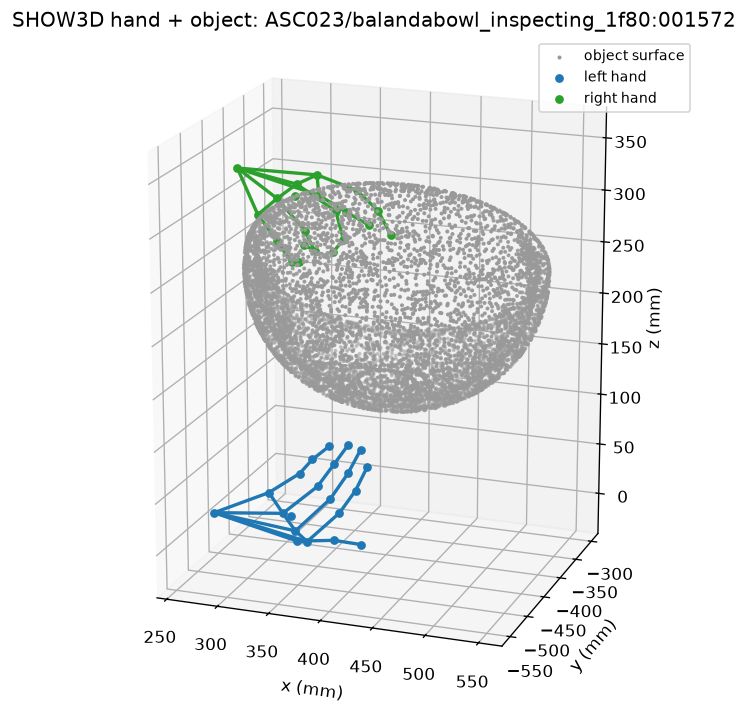
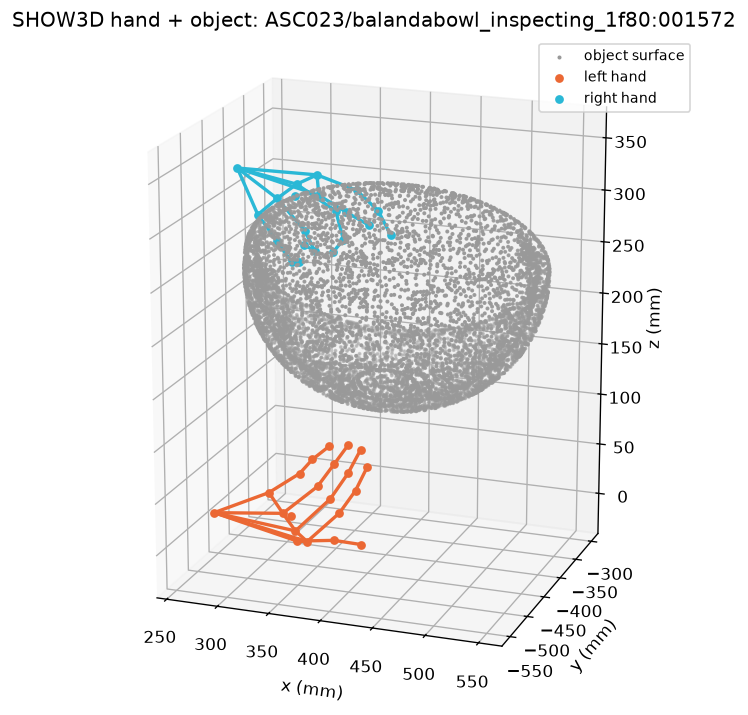
Stereo overlay, mesh-colored skeletons and hand-mesh fixes
- demo_viz --mode overlay --view stereo draws headset0 and headset1 side by
  side; the README's top image is now that stereo montage.
- Hand skeletons use the hand-mesh colors (left orange, right cyan) in every
  render; docs/geometry.png is recolored to match.
- MANO and MHR posers return None for a hand entry missing its parameters,
  as UmeTrack already did.
- viz.drawn_landmarks: the hands every render draws, above the 0.1 accept gate.
- CI runs with read-only repository permissions; CONTRIBUTING explains that
  pull requests land through Meta's internal tree; extract_images docstring fix.

diff --git a/show3d/viz.py b/show3d/viz.py
@@ -8,7 +8,8 @@
 
 Two renders of one frame, each writing a PNG:
 
-* :func:`render_overlay`  -- hand skeleton + object projected onto the frame (2D).
+* :func:`render_overlay`  -- hand skeleton + object projected onto the frame (2D),
+  or onto both egocentric frames side by side.
 * :func:`render_geometry` -- hand skeleton + object surface in 3D.
 
 :func:`run_visualization` picks a suitable frame from a frame manifest and
@@ -88,17 +89,25 @@ HAND_EDGES: tuple[tuple[int, int], ...] = (
     (14, 17),  # palm arch
 )
 
-# (legend label, color) per hand, keyed by ``LEFT_HAND`` / ``RIGHT_HAND``.
-HAND_STYLES: dict[str, tuple[str, str]] = {
-    LEFT_HAND: ("left hand", "tab:blue"),
-    RIGHT_HAND: ("right hand", "tab:green"),
-}
-# Hand mesh RGB per slot, orange for the left hand and cyan for the right: the
-# colors of the released viz_*.mp4 videos.
+# Hand RGB per slot, orange for the left hand and cyan for the right: the colors
+# of the released viz_*.mp4 videos. Skeletons and meshes both use them.
 MESH_COLORS: tuple[tuple[int, int, int], tuple[int, int, int]] = (
     (235, 104, 52),
     (42, 184, 214),
 )
+
+
+def _hex_color(rgb: tuple[int, int, int]) -> str:
+    return "#{:02x}{:02x}{:02x}".format(*rgb)
+
+
+# (legend label, color) per hand, keyed by ``LEFT_HAND`` / ``RIGHT_HAND``.
+HAND_STYLES: dict[str, tuple[str, str]] = {
+    LEFT_HAND: ("left hand", _hex_color(MESH_COLORS[LEFT_SLOT])),
+    RIGHT_HAND: ("right hand", _hex_color(MESH_COLORS[RIGHT_SLOT])),
+}
+# The ``view`` that overlays both egocentric views side by side.
+STEREO_VIEW: str = "stereo"
 # A vertex barely in front of the camera plane projects millions of pixels away.
 # Pulling it to this distance from the principal point along its own direction
 # keeps OpenCV's fixed-point coordinates in int32 and moves the triangle's edges
@@ -261,19 +270,25 @@ def frame_hands(frame_data: Show3DFrameData) -> dict[str, HandPoseFrame | None]:
     return {LEFT_HAND: frame_data.left_hand, RIGHT_HAND: frame_data.right_hand}
 
 
+def drawn_landmarks(hand: HandPoseFrame | None) -> FloatArray | None:
+    """The hand's landmarks to draw, or None when the hand is missing, has no
+    landmarks, or is at or below the accept gate that :mod:`show3d.hand_mesh`
+    also uses."""
+    if hand is None or hand.confidence <= ACCEPT_CONFIDENCE_THRESHOLD:
+        return None
+    return hand.landmarks_world_mm
+
+
 def present_hands(frame_data: Show3DFrameData) -> list[tuple[str, str, FloatArray]]:
-    """``(label, color, joints_world_mm)`` for each hand above the accept gate,
-    the hands that :mod:`show3d.hand_mesh` meshes."""
+    """``(label, color, joints_world_mm)`` for each hand with
+    :func:`drawn_landmarks`."""
     out: list[tuple[str, str, FloatArray]] = []
     for side, hand in frame_hands(frame_data).items():
-        if (
-            hand is None
-            or hand.landmarks_world_mm is None
-            or hand.confidence <= ACCEPT_CONFIDENCE_THRESHOLD
-        ):
+        joints = drawn_landmarks(hand)
+        if joints is None:
             continue
         label, color = HAND_STYLES[side]
-        out.append((label, color, hand.landmarks_world_mm))
+        out.append((label, color, joints))
     return out
 
 
@@ -322,20 +337,30 @@ def _decode_frame(video_path: Path, frame_index: int) -> FloatArray | None:
         capture.release()
 
 
-def render_overlay(
-    frame_data: Show3DFrameData, view_name: str, out_path: str | Path
-) -> None:
-    """Hand skeleton + object projected onto the egocentric frame (2D)."""
+def _overlay_view_names(view_name: str) -> tuple[str, ...]:
+    """The egocentric views an overlay of ``view_name`` draws: both for
+    ``STEREO_VIEW``, else just ``view_name``."""
+    return EGOCENTRIC_VIEWS if view_name == STEREO_VIEW else (view_name,)
+
+
+def _overlay_view(
+    frame_data: Show3DFrameData, view_name: str
+) -> tuple[Path, CameraCalibration]:
     view = frame_data.views.get(view_name)
     if view is None or view.calibration is None:
         raise ValueError(f"view {view_name!r} has no calibration to overlay")
-    calibration = view.calibration
-    if calibration.t_world_from_camera is None:
+    if view.calibration.t_world_from_camera is None:
         raise ValueError(f"view {view_name!r} has no valid t_world_from_camera")
+    return view.video_path, view.calibration
 
-    fig = Figure(figsize=(8, 8 * calibration.image_height / calibration.image_width))
-    ax: Any = fig.add_subplot()
-    image = _decode_frame(view.video_path, frame_data.frame.frame_index)
+
+def _draw_overlay(
+    ax: Any,
+    frame_data: Show3DFrameData,
+    video_path: Path,
+    calibration: CameraCalibration,
+) -> None:
+    image = _decode_frame(video_path, frame_data.frame.frame_index)
     if image is not None:
         ax.imshow(image)
     else:
@@ -354,8 +379,28 @@ def render_overlay(
     ax.set_ylim(calibration.image_height, 0)  # image row 0 at top
     ax.set_aspect("equal")
     ax.axis("off")
-    ax.set_title(f"SHOW3D {view_name} overlay: {frame_data.frame.sample_id}")
-    ax.legend(loc="upper right", fontsize="small")
+
+
+def render_overlay(
+    frame_data: Show3DFrameData, view_name: str, out_path: str | Path
+) -> None:
+    """Hand skeleton + object projected onto the egocentric frame (2D). With
+    ``STEREO_VIEW``, onto both egocentric frames side by side."""
+    names = _overlay_view_names(view_name)
+    views = [_overlay_view(frame_data, name) for name in names]
+    first = views[0][1]
+    fig = Figure(
+        figsize=(8 * len(views), 8 * first.image_height / first.image_width),
+        layout="compressed",
+    )
+    axes: Any = fig.subplots(1, len(views), squeeze=False)[0]
+    sample_id = frame_data.frame.sample_id
+    for ax, name, (video_path, calibration) in zip(axes, names, views):
+        _draw_overlay(ax, frame_data, video_path, calibration)
+        ax.set_title(name if len(views) > 1 else f"SHOW3D {name} overlay: {sample_id}")
+    if len(views) > 1:
+        fig.suptitle(f"SHOW3D stereo overlay: {sample_id}")
+    axes[-1].legend(loc="upper right", fontsize="small")
     fig.savefig(out_path, dpi=120, bbox_inches="tight")
 
 
@@ -368,6 +413,15 @@ def _has_confident_hand(frame_data: Show3DFrameData) -> bool:
         and hand.landmarks_world_mm is not None
         and hand.confidence > DEFAULT_CONFIDENCE_THRESHOLD
         for hand in frame_hands(frame_data).values()
+    )
+
+
+def _has_view_pose(frame_data: Show3DFrameData, view_name: str) -> bool:
+    view = frame_data.views.get(view_name)
+    return (
+        view is not None
+        and view.calibration is not None
+        and view.calibration.t_world_from_camera is not None
     )
 
 
@@ -388,7 +442,8 @@ def _pick_frame(
     dataset: Show3DDataset, mode: str, view_name: str
 ) -> Show3DFrameData | None:
     """The first frame with a valid headset pose and a confident hand; for
-    overlay, preferably one whose hand lands in the view."""
+    overlay, preferably one whose hand lands in every overlaid view."""
+    names = _overlay_view_names(view_name)
     fallback: Show3DFrameData | None = None
     for index in range(len(dataset)):
         frame_data = dataset[index]
@@ -396,14 +451,11 @@ def _pick_frame(
             continue
         if mode != "overlay":
             return frame_data
-        view = frame_data.views.get(view_name)
-        if view is None or view.calibration is None:
-            continue
-        if view.calibration.t_world_from_camera is None:
+        if not all(_has_view_pose(frame_data, name) for name in names):
             continue
         if fallback is None:
             fallback = frame_data
-        if _projects_into_view(frame_data, view_name):
+        if all(_projects_into_view(frame_data, name) for name in names):
             return frame_data
     return fallback
 
@@ -423,13 +475,12 @@ def run_visualization(
     dataset = Show3DDataset.from_manifest_jsonl(root, manifest_path)
     frame_data = _pick_frame(dataset, mode, view)
     if frame_data is None:
-        hand_pose = (
-            dataset.paths.hand_pose_path(dataset.frames[0]) if dataset.frames else None
-        )
+        if not dataset.frames:
+            raise ValueError(f"{manifest_path} lists no frames")
         raise ValueError(
             f"no frame in {manifest_path} has a valid headset pose and a hand above "
             f"confidence {DEFAULT_CONFIDENCE_THRESHOLD} (hand poses read from "
-            f"{hand_pose}, for example)"
+            f"{dataset.paths.hand_pose_path(dataset.frames[0])}, for example)"
         )
 
     out = Path(out_path)

diff --git a/show3d/tests/test_viz.py b/show3d/tests/test_viz.py
@@ -8,6 +8,7 @@ import tempfile
 import unittest
 from pathlib import Path
 
+import cv2
 import numpy as np
 
 from ..dataset import CameraCalibration
@@ -27,22 +28,33 @@ except ModuleNotFoundError:
     run_visualization is not None, "matplotlib is required for the visualization demo"
 )
 class VizTest(unittest.TestCase):
-    def _render(self, mode: str) -> None:
+    def _render(self, mode: str, view: str = "headset0") -> tuple[int, int]:
+        """Render ``mode`` of the synthetic scene; return the PNG's (width, height)."""
         assert run_visualization is not None
         with tempfile.TemporaryDirectory() as td:
             root = Path(td)
             manifest_path = build_synthetic_scene(root, num_frames=4)
             out_path = root / f"{mode}.png"
-            returned = run_visualization(root, manifest_path, out_path, mode=mode)
+            returned = run_visualization(
+                root, manifest_path, out_path, mode=mode, view=view
+            )
             self.assertEqual(returned, out_path)
-            self.assertTrue(out_path.exists())
-            self.assertGreater(out_path.stat().st_size, 0)
+            image = cv2.imread(str(out_path))
+            self.assertIsNotNone(image)
+            height, width = image.shape[:2]
+            return width, height
 
     def test_geometry_mode(self) -> None:
         self._render("geometry")
 
     def test_overlay_mode(self) -> None:
         self._render("overlay")
+
+    def test_stereo_overlay_draws_both_views_side_by_side(self) -> None:
+        single_width, single_height = self._render("overlay")
+        stereo_width, stereo_height = self._render("overlay", view="stereo")
+        self.assertGreater(stereo_width, 1.8 * single_width)
+        self.assertLess(abs(stereo_height - single_height), 0.2 * single_height)
 
     def test_hand_mesh_nearer_triangle_occludes(self) -> None:
         assert draw_hand_meshes is not None

diff --git a/show3d/demo_viz.py b/show3d/demo_viz.py
@@ -11,7 +11,8 @@
     python -m show3d.demo_viz --mode overlay --root DIR --manifest M.jsonl --out overlay.png
 
 With no --root/--manifest it renders a bundled synthetic scene. Modes: overlay
-(skeleton + object on the frame) and geometry (3D skeleton + object).
+(skeleton + object on the frame) and geometry (3D skeleton + object). With
+--view stereo, overlay draws headset0 and headset1 side by side.
 
 --model draws one hand model's posed meshes on a scene's frames instead, as an
 image, or with --video as an MP4 of --num-frames frames:
@@ -27,6 +28,7 @@ import tempfile
 from pathlib import Path
 
 from . import viz
+from .dataset import EGOCENTRIC_VIEWS
 from .hand_mesh import DEFAULT_MESH_HAND_POSE_VERSION, HAND_MODELS
 from .synthetic import build_synthetic_scene
 
@@ -46,8 +48,8 @@ def main() -> None:
     parser.add_argument(
         "--view",
         default="headset0",
-        choices=["headset0", "headset1"],
-        help="egocentric view for overlay mode and --model",
+        choices=[*EGOCENTRIC_VIEWS, viz.STEREO_VIEW],
+        help="egocentric view for overlay mode and --model (stereo: overlay only)",
     )
     parser.add_argument(
         "--model",
@@ -84,6 +86,8 @@ def main() -> None:
     if args.model is not None:
         if args.root is None or args.scene is None or args.scene.count("/") != 1:
             parser.error("--model needs --root and --scene SUBJECT/SCENE")
+        if args.view == viz.STEREO_VIEW:
+            parser.error("--model draws one view; pick headset0 or headset1")
         subject, scene = args.scene.split("/")
         default_out = Path(f"{args.model}.mp4" if args.video else f"{args.model}.png")
         viz.render_hand_meshes(

diff --git a/show3d/hand_mesh_mano.py b/show3d/hand_mesh_mano.py
@@ -63,14 +63,18 @@ class ManoMesher:
             np.asarray(layer.faces, dtype=np.int64) for layer in self._layers
         ]
 
-    def posed_mesh(self, hand: Mapping[str, object], slot: int) -> HandMesh:
+    def posed_mesh(self, hand: Mapping[str, object], slot: int) -> HandMesh | None:
+        global_transform = hand.get("global_transform")
+        pose_parameters = hand.get("pose_parameters")
+        if global_transform is None or pose_parameters is None:
+            return None
         # global_transform is the root's axis-angle, then a translation in meters.
-        transform = torch.tensor([hand["global_transform"]], dtype=torch.float64)
+        transform = torch.tensor([global_transform], dtype=torch.float64)
         with torch.no_grad():
             output = self._layers[slot](
                 betas=self._betas,
                 global_orient=transform[:, :3],
-                hand_pose=torch.tensor([hand["pose_parameters"]], dtype=torch.float64),
+                hand_pose=torch.tensor([pose_parameters], dtype=torch.float64),
                 transl=transform[:, 3:],
             )
         vertices = output.vertices[0]

diff --git a/show3d/extract_images.py b/show3d/extract_images.py
@@ -17,8 +17,8 @@ Frames are written as JPEG by default. The source videos are already lossy
 size; use ``--format png`` only if you need bit-exact decoded frames.
 
 By default every scene under ``--root`` is extracted. ``--manifest`` restricts the
-run to the scenes a JSONL manifest names, and ``--require-object-pose`` to the
-scenes with object-pose ground truth.
+run to the scenes a JSONL manifest names. Without it, ``--require-object-pose``
+keeps only the scenes with object-pose ground truth.
 
 Sampling keeps every k-th frame, so ``--fps`` must be a whole number that divides
 the 60 fps source: 1, 2, 3, 4, 5, 6, 10, 12, 15, 20, 30, or 60. It is required

diff --git a/show3d/hand_mesh_mhr.py b/show3d/hand_mesh_mhr.py
@@ -103,7 +103,12 @@ class MhrMesher:
             self._vertices.append(keep)
             self._faces.append(remap[all_faces[np.isin(all_faces, keep).all(1)]])
 
-    def posed_mesh(self, hand: Mapping[str, object], slot: int) -> HandMesh:
+    def posed_mesh(self, hand: Mapping[str, object], slot: int) -> HandMesh | None:
+        if any(
+            hand.get(key) is None
+            for key in ("finger_parameters", "wrist_rotation", "wrist_translation")
+        ):
+            return None
         vertices_cm, skeleton_state = self._posed(hand, slot)
         return HandMesh(
             vertices_world_mm=self._to_world_mm(

diff --git a/README.md b/README.md
@@ -7,7 +7,7 @@ a dataset of 3D hands and objects captured in the wild (CVPR 2026).
 [Dataset](https://huggingface.co/datasets/facebook/show3d-dataset) |
 [Interaction Field Estimation Challenge](https://github.com/patrickqrim/SHOW3D-dataset-api/tree/main/show3d/interaction_field)
 
-![A SHOW3D frame with the hand skeleton and object drawn on it](docs/overlay.png)
+![Both egocentric views of a SHOW3D frame with the hand skeletons and object drawn on them](docs/overlay.png)
 
 SHOW3D has 2,137 recordings of hands using objects in the wild, 20 hours in
 total. Each recording has two egocentric views from a Meta Quest 3 headset at 60
@@ -122,14 +122,17 @@ Pin the data and code revisions together to keep the same set of valid frames.
 
 ```bash
 python -m show3d.demo_viz --root /path/to/show3d --manifest frames.jsonl \
-    --mode overlay --out overlay.png
+    --mode overlay --view stereo --out overlay.png
 python -m show3d.demo_viz --root /path/to/show3d --manifest frames.jsonl \
     --mode geometry --out geometry.png
 ```
 
 It picks the first frame with a valid headset pose and a confident hand. The
-`overlay` mode projects the hand skeleton and object onto the egocentric image,
-as in the image at the top. The `geometry` mode draws them in 3D:
+`overlay` mode projects the hand skeletons and object onto one egocentric image
+(`--view headset0` or `headset1`), or onto both side by side with
+`--view stereo`, as in the image at the top. Left hands are orange and right
+hands cyan in every render, hand meshes included. The `geometry` mode draws them
+in 3D:
 
 ![The hand skeleton and object surface of a frame in 3D](docs/geometry.png)
 

diff --git a/CONTRIBUTING.md b/CONTRIBUTING.md
@@ -5,7 +5,9 @@ possible.
 
 ## Pull Requests
 
-We welcome pull requests.
+We welcome pull requests. This repository is exported from Meta's internal
+source tree, so maintainers apply an accepted pull request there first, and the
+next export brings it to GitHub.
 
 1. Fork the repo and create your branch from `main`.
 2. If you've added code that should be tested, add tests.
